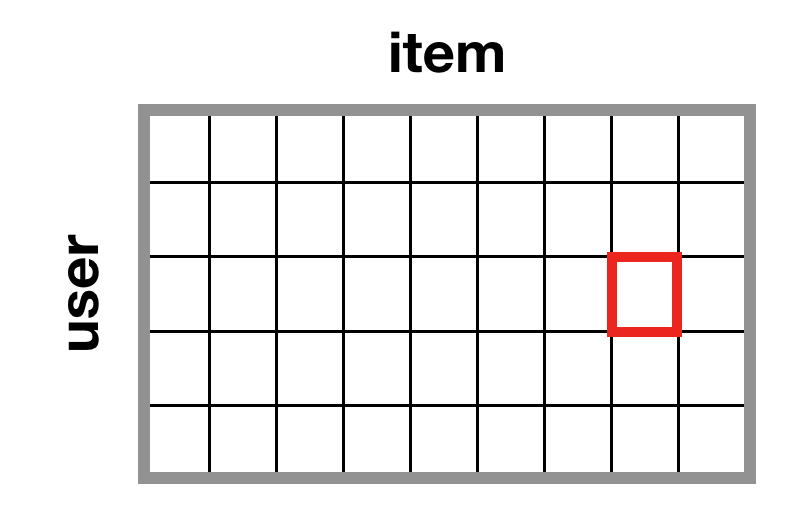
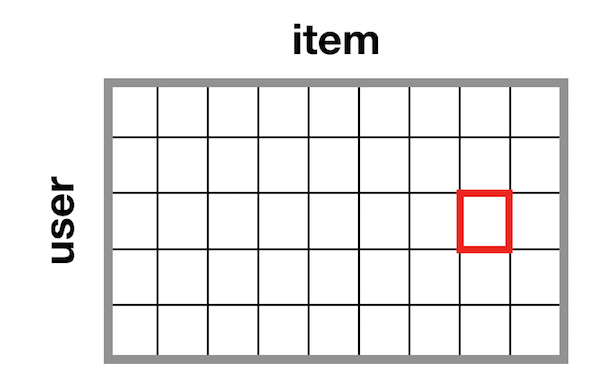
Resize images in readme

diff --git a/README.md b/README.md
@@ -32,14 +32,14 @@ The two most commonly used methods for recommendation systems are: 1) collaborat
 
 - utility matrix
 
-<img src="images/collaborative-filtering.png">
+<img src="images/collaborative-filtering.png" width="250px">
 
 
 ### Content-based Filtering
 
 - user and item features
 
-<img src="images/content-based-filtering.png">
+<img src="images/content-based-filtering.png" width="400px">
 
 
 ### How do we define a user's "preference" towards an item?
